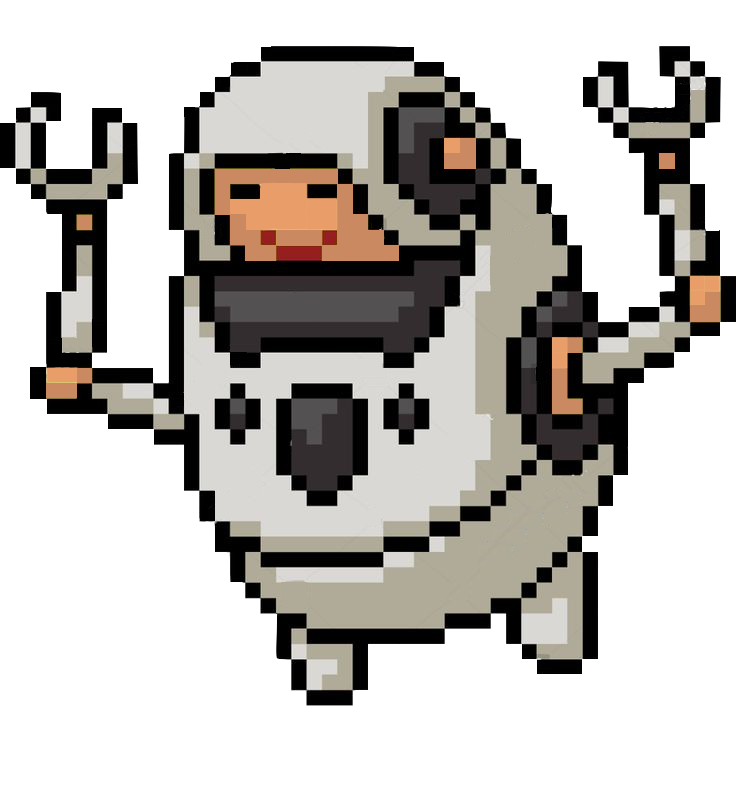
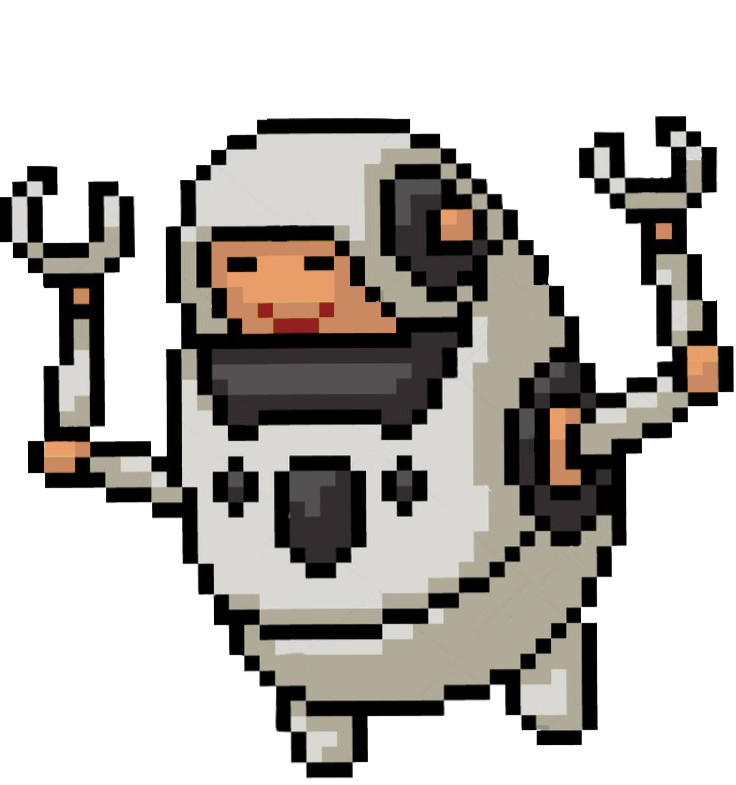
done

diff --git a/src/components/Header.jsx b/src/components/Header.jsx
@@ -1,19 +1,26 @@
 import {Link} from 'react-router-dom'
 import Image1 from '../images/plate.png'
 import Image2 from '../images/robot.png'
+import Pixel from '../images/logo.png'
 import './header.css'
 
 const Header = () => {
   return (
     <header className="main_header">
       <div className="container main_header-container">
-        <p>
-        Not sure what to do with random ingredients, scraps, and leftovers? Upload an image of your fridge and FridgeSmart will show you the recipes you can make!
-        </p>  
-      </div>
-      <div className="main_header-right">
-        <div className="main_header-plate"> <img src={Image1} alt=""/></div>
-        <div className="main_header-image"> <img src={Image2} alt=""/>
+        <div className="main_header-left">
+          <p className="introducing">Introducing...</p>
+          <img className="fridgesmart"src={Pixel}/>
+          <p className="description">
+          Not sure what to do with random ingredients, scraps, and leftovers? Upload an image of your fridge and FridgeSmart will show you the recipes you can make!
+          </p>  
+
+        </div>
+      
+        <div className="main_header-right">
+          <div className="main_header-image"> <img className="robot" src={Image2} alt=""/>
+          </div>
+          <div className="main_header-plate"> <img className="plate" src={Image1} alt=""/></div>
         </div>
       </div>
     </header>

diff --git a/src/components/header.css b/src/components/header.css
@@ -6,5 +6,60 @@
   display: grid;
   place-items: center;
   
+}
+
+.main_header-container {
+  height: 100%;
+  display: grid; 
+  grid-template-columns: 1fr 1fr;
+  align-items: center;
+  justify-content: space-between;
+  gap: 6rem;
+}
+
+.main_header-left {
+  margin-top: -4rem;
+  margin-left: 2.5rem;
+}
+.main_header-left p {
+  margin-bottom: 1rem;
+  font-weight: lighter;
+}
+.introducing {
+  margin-bottom: 1rem;
+  margin-top: 5rem;
+}
+.fridgesmart {
+  margin-bottom: 1rem;
+}
+
+.main_header-right {
+  display: grid;
+  place-items: center;
+  position: relative;
+}
+
+.plate {
+  height: 3rem;
+  z-index: 10;
+  position: relative;
+  left: 100px;
+  bottom: 60px;
 
 }
+.robot {
+  min-width: 16.36rem;
+  height: 17.44rem;
+  z-index: 8;
+  margin-top: 6rem;
+}
+.main_header-plate {
+  position: relative;
+  
+}
+.main_header-image {
+  position: absolute;
+  
+}
+
+

diff --git a/src/components/navbar.css b/src/components/navbar.css
@@ -31,7 +31,7 @@ nav {
   gap: 1rem;
 }
 .title {
-  font-size: 20px;
+  font-size: 25px;
   
 }
 .logo1 {
